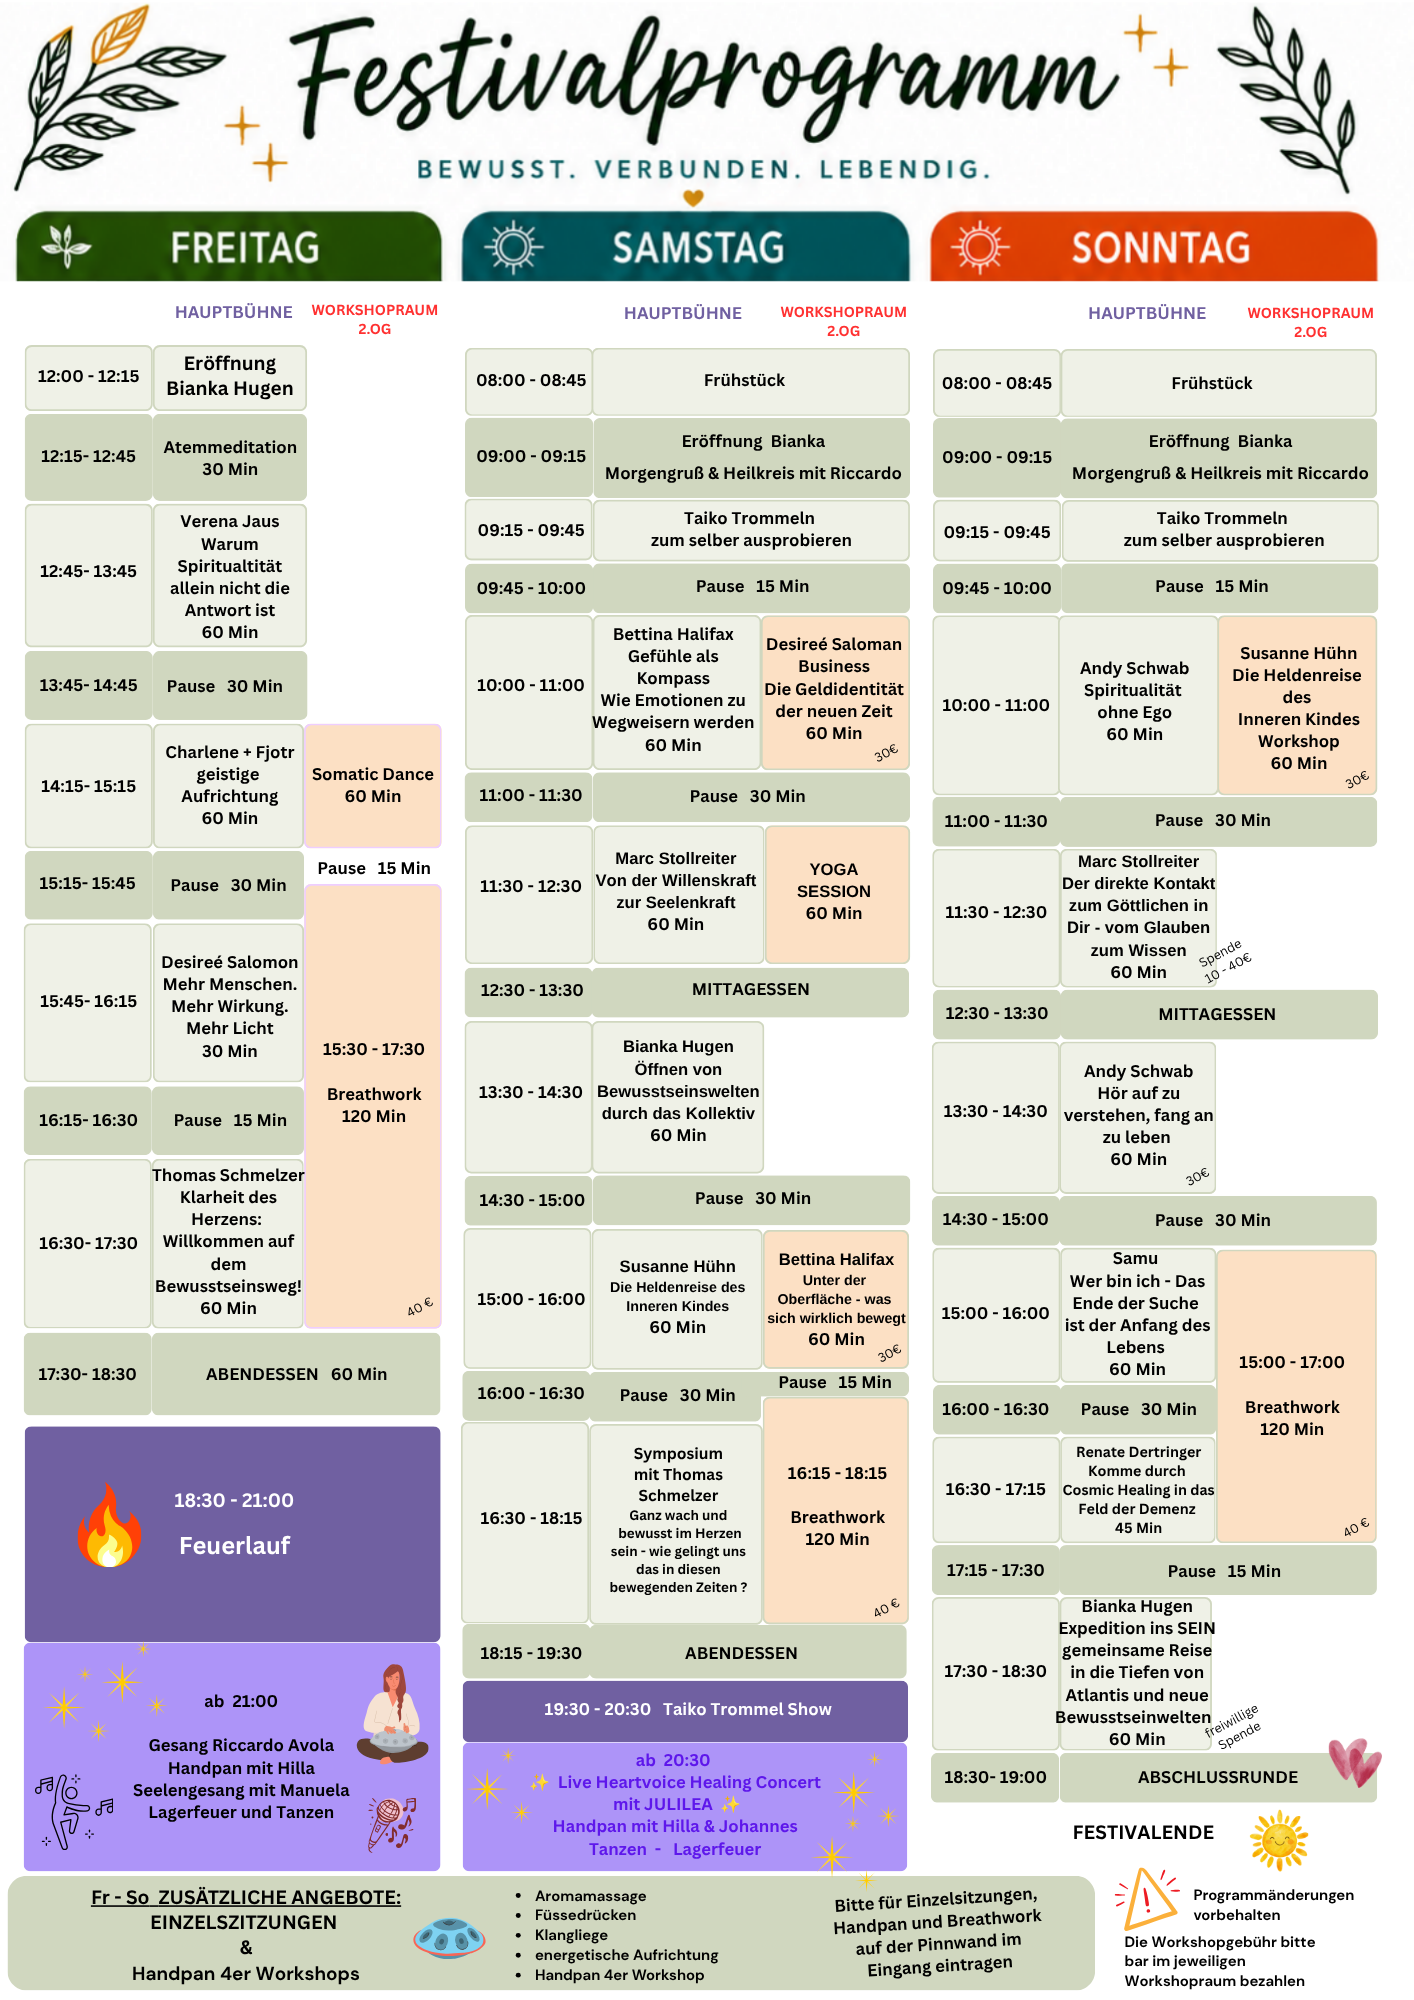
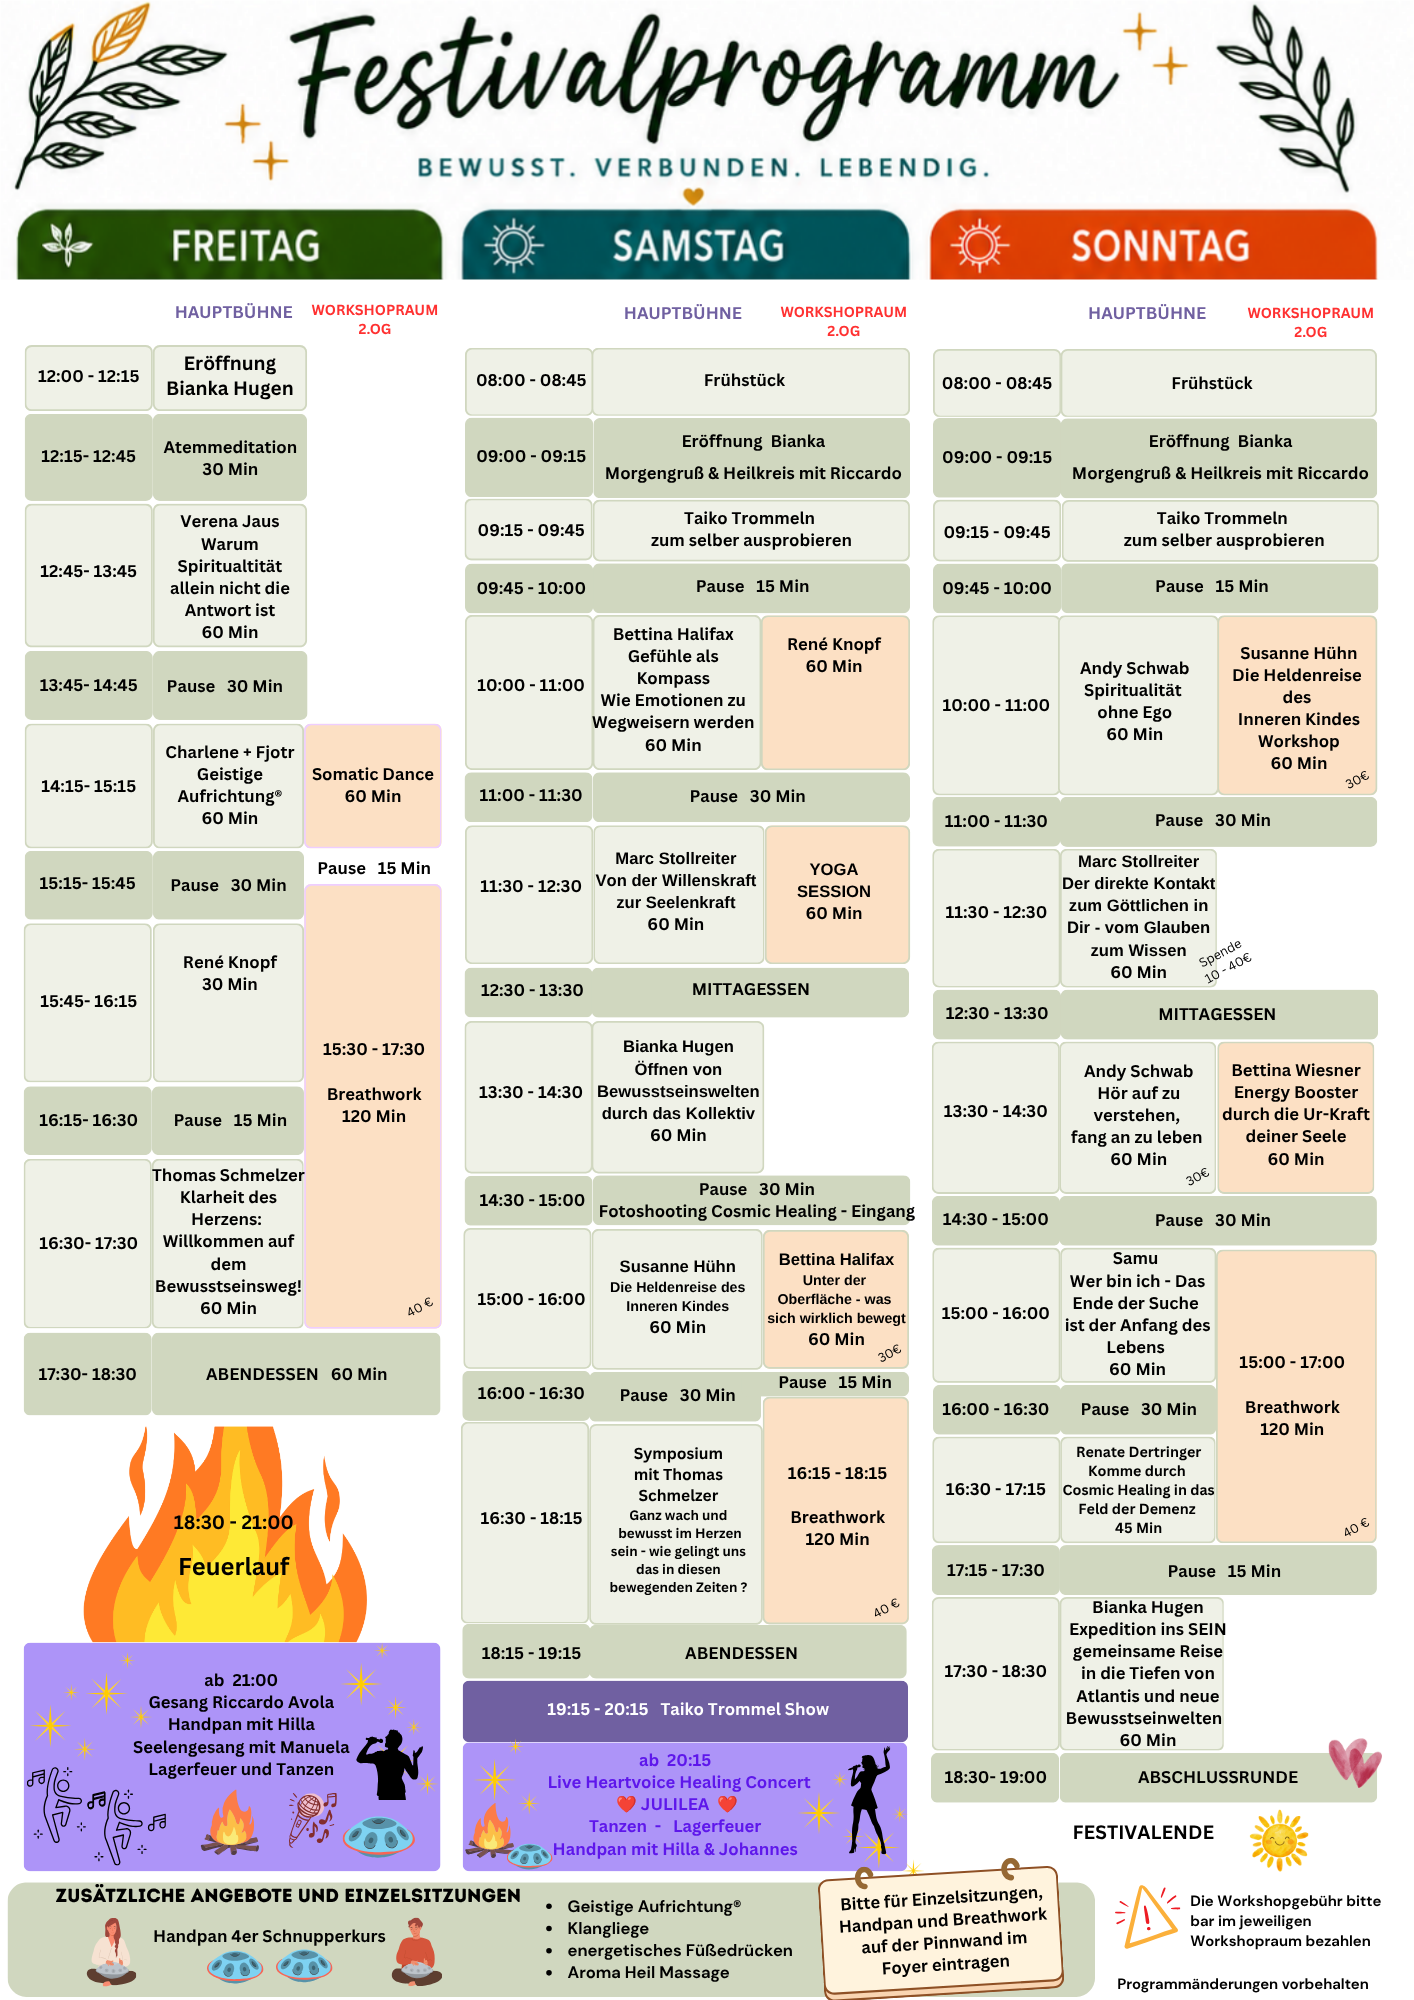
Speaker-Update: René Knopf + Bettina Wiesner, neues Programm, 3-Tages-Ticket
- René Knopf als TOP Speaker + Workshop hinzugefügt (Gründer Body und Soul Festival Mallorca)
- Bettina Wiesner als Speaker + Workshop hinzugefügt (ersetzt Désirée Salomon)
- Désirée Salomon aus Speaker-Grid und Workshop-Sektion entfernt
- Neues Festivalprogramm (Program MEGA mit Feuer-Symbol) übernommen
- Festival-Ticket überall in 3-Tages-Ticket umbenannt
- Speaker-Anzahl in Überschrift auf 13 aktualisiert

diff --git a/index.html b/index.html
@@ -2202,9 +2202,27 @@ footer {
   <div class="speakers-inner">
     <div class="section-header">
       <span class="section-label reveal" style="color:var(--rose);">Wirklich 3 Tage vor Ort</span>
-      <h2 class="section-title reveal reveal-delay-1" style="color:var(--text-dark);">Deine Chance, 12 Speaker <span style="background:linear-gradient(135deg,var(--rose) 0%,var(--gold) 60%,var(--rose-light) 100%);-webkit-background-clip:text;-webkit-text-fill-color:transparent;background-clip:text;">persönlich kennenzulernen</span></h2>
+      <h2 class="section-title reveal reveal-delay-1" style="color:var(--text-dark);">Deine Chance, 13 Speaker <span style="background:linear-gradient(135deg,var(--rose) 0%,var(--gold) 60%,var(--rose-light) 100%);-webkit-background-clip:text;-webkit-text-fill-color:transparent;background-clip:text;">persönlich kennenzulernen</span></h2>
     </div>
     <div class="speakers-grid">
+      <!-- RENÉ KNOPF -->
+      <article class="speaker-card reveal" onclick="openSpeakerModal(this)"
+        data-name="René Knopf"
+        data-title="TOP Speaker · Gründer & Veranstalter Body und Soul Festival Mallorca"
+        data-vortrag="Folgt in Kürze"
+        data-workshop="Folgt in Kürze"
+        data-bio="René Knopf ist Gründer und Veranstalter des Body und Soul Festival Mallorca. Als TOP Speaker bringt er transformative Energie, authentische Herzensarbeit und eine außergewöhnliche Reichweite in die Bühnenarbeit ein. Sein Programmbeitrag beim Soul Awakening Festival 2026 wird noch bekannt gegeben."
+        data-img="Medien/Speaker/rene-knopf.jpg">
+        <div class="speaker-img-wrap">
+          <img src="Medien/Speaker/rene-knopf.jpg" alt="René Knopf" class="speaker-img" loading="lazy">
+          <div class="speaker-glow"></div>
+        </div>
+        <div class="speaker-info">
+          <div class="speaker-name">René Knopf</div>
+          <div class="speaker-title">TOP Speaker</div>
+          <div class="speaker-bio">Gründer · Body und Soul Festival Mallorca</div>
+        </div>
+      </article>
       <!-- THOMAS SCHMELZER -->
       <article class="speaker-card reveal" onclick="openSpeakerModal(this)"
         data-name="Thomas Schmelzer"
@@ -2349,22 +2367,22 @@ footer {
           <div class="speaker-bio">Energetische Aromatherapie · Aura & Energiesystem</div>
         </div>
       </article>
-      <!-- DESIRÉE SALOMON -->
+      <!-- BETTINA WIESNER -->
       <article class="speaker-card reveal" onclick="openSpeakerModal(this)"
-        data-name="Desirée Salomon"
-        data-title="Medium · Spiritueller Business Coach · Visionärin"
-        data-vortrag="Bewusstsein & Business"
-        data-workshop="Die Geldidentität der neuen Zeit"
-        data-bio="Desirée Salomon ist Medium, Coach, Visionärin und Gründerin von Lumea. Als hellwissende alte Seele begleitet sie Menschen dabei, das Unsichtbare in die Realität zu übersetzen und große Visionen auf dieser Erde zu verankern. Sie ist die Anlaufstelle für Unternehmerinnen und Unternehmer, die spüren, dass sie für etwas Größeres gekommen sind. Ihre besondere Gabe liegt darin, Spiritualität, Mindset und Business auf eine Weise zu verbinden, die Wachstum, Fülle und Erfolg wieder in ihren natürlichen Fluss bringt."
-        data-img="Medien/Speaker/desiree-salomon.jpg">
+        data-name="Bettina Wiesner"
+        data-title="Healing Heart und Happiness · Seelen Kanal Öffnerin · Expertin für Transformation und Lebensenergie"
+        data-vortrag="Energy Booster durch die Ur-Kraft deiner Seele"
+        data-workshop="Energy Booster durch die Ur-Kraft deiner Seele"
+        data-bio="Bettina Wiesner — Healing Heart und Happiness. Als Seelen Kanal Öffnerin begleitet sie Menschen seit über 20 Jahren in ihre göttliche Ur Essenz — in das, was sie waren, bevor sie auf diese Erde kamen. Nach über 30 Jahren Schulmedizin hat sie sich darauf spezialisiert, geerbte und übertragene Ursachen von körperlicher und emotionaler Belastung aufzuspüren und zu erlösen. Sie bietet 1:1 Begleitung, Gruppen Transformationen, Retreats und Happiness Begleitungen in ihrem Soul Awakening Mobil an. Lass Dich überraschen, wie deine Ur Energie voller innerer Ruhe, Freude und Schönheit tief in Dir erfahren wird und eine nachhaltige Wirkung ermöglicht."
+        data-img="Medien/Speaker/bettina-wiesner.jpg">
         <div class="speaker-img-wrap">
-          <img src="Medien/Speaker/desiree-salomon.jpg" alt="Desirée Salomon" class="speaker-img" loading="lazy">
+          <img src="Medien/Speaker/bettina-wiesner.jpg" alt="Bettina Wiesner" class="speaker-img" loading="lazy">
           <div class="speaker-glow"></div>
         </div>
         <div class="speaker-info">
-          <div class="speaker-name">Desirée Salomon</div>
-          <div class="speaker-title">Spiritueller Business Coach</div>
-          <div class="speaker-bio">Lumea · Bewusstsein, Mindset & Business</div>
+          <div class="speaker-name">Bettina Wiesner</div>
+          <div class="speaker-title">Seelen Kanal Öffnerin</div>
+          <div class="speaker-bio">Healing Heart und Happiness · Expertin für Lebensenergie</div>
         </div>
       </article>
       <!-- PJOTR & CHARLENE ELKUNOVIZ -->
@@ -2840,12 +2858,21 @@ footer {
       </article>
 
       <article class="workshop-card reveal reveal-delay-2">
-        <img src="Medien/Speaker/desiree-salomon.jpg" alt="Desirée Salomon" class="workshop-img" loading="lazy">
+        <img src="Medien/Speaker/bettina-wiesner.jpg" alt="Bettina Wiesner" class="workshop-img" loading="lazy">
         <span class="workshop-tag">Speaker-Workshop</span>
-        <h3 class="workshop-title">Die Geldidentität der neuen Zeit</h3>
-        <div class="workshop-host">Desirée Salomon</div>
-        <p class="workshop-desc">Spiritualität, Mindset und Business in Einklang bringen — dein Weg zu Wachstum, Fülle und dem natürlichen Fluss des Erfolgs.</p>
+        <h3 class="workshop-title">Energy Booster durch die Ur-Kraft deiner Seele</h3>
+        <div class="workshop-host">Bettina Wiesner</div>
+        <p class="workshop-desc">Erlebe, wie deine Ur-Energie voller innerer Ruhe, Freude und Schönheit tief in dir erfahren wird — und eine nachhaltige Wirkung ermöglicht.</p>
         <div class="workshop-meta"><span class="workshop-badge price">€ 30 · Exklusiver Festivalpreis</span></div>
+      </article>
+
+      <article class="workshop-card reveal reveal-delay-3">
+        <img src="Medien/Speaker/rene-knopf.jpg" alt="René Knopf" class="workshop-img" loading="lazy">
+        <span class="workshop-tag">Speaker-Workshop</span>
+        <h3 class="workshop-title">Workshop mit René Knopf</h3>
+        <div class="workshop-host">René Knopf</div>
+        <p class="workshop-desc">Details folgen in Kürze — freue dich auf einen besonderen Programmbeitrag des Gründers des Body und Soul Festival Mallorca.</p>
+        <div class="workshop-meta"><span class="workshop-badge">Details folgen</span></div>
       </article>
 
 
@@ -2926,7 +2953,7 @@ footer {
         <div class="ticket-urgency" id="earlyBirdBanner1">
           🕊 Early Bird — Sichere dir deinen Platz bis 5. August!
         </div>
-        <div class="ticket-name">Festival-Ticket</div>
+        <div class="ticket-name">3-Tages-Ticket</div>
 
         <div class="ticket-price-block">
           <div class="ticket-price gold-text">
@@ -3179,7 +3206,7 @@ footer {
     <!-- Zimmer buchen CTA -->
     <div class="reveal" style="max-width:860px;margin:0 auto 16px;background:var(--gold);border-radius:8px;padding:18px 24px;">
       <div style="font-size:15px;font-weight:700;color:var(--black);margin-bottom:6px;">🏨 Zimmer direkt beim Lethehof buchen</div>
-      <div style="font-size:13px;color:rgba(10,10,10,0.7);margin-bottom:12px;">Die Übernachtung wird direkt mit dem Hotel Lethehof gebucht — nicht über das Festival-Ticket.</div>
+      <div style="font-size:13px;color:rgba(10,10,10,0.7);margin-bottom:12px;">Die Übernachtung wird direkt mit dem Hotel Lethehof gebucht — nicht über das 3-Tages-Ticket.</div>
       <div style="display:flex;flex-wrap:wrap;gap:8px 20px;">
         <a href="mailto:info@hotel-lethehof.de" style="font-size:13px;font-weight:600;color:var(--black);text-decoration:none;">✉ info@hotel-lethehof.de</a>
         <a href="tel:+4917632699427" style="font-size:13px;font-weight:600;color:var(--black);text-decoration:none;">📞 0176 32699427</a>
@@ -3283,7 +3310,7 @@ footer {
         <select class="form-select" id="formTicket" name="ticket" required>
           <option value="" disabled selected>Bitte wählen …</option>
           <optgroup label="Wochenendtickets">
-            <option value="Festival-Ticket (€249)">🕊 Festival-Ticket — €249</option>
+            <option value="3-Tages-Ticket (€249)">🕊 3-Tages-Ticket — €249</option>
           </optgroup>
           <optgroup label="Tagestickets mit Verpflegung">
             <option value="Tagesticket Freitag (€129)">📅 Freitag 21.8. — €129 (mit Essen)</option>
@@ -3326,8 +3353,8 @@ footer {
           <p style="font-size:15px;color:rgba(245,240,232,0.7);line-height:1.8;">
             <strong style="color:var(--cream-mid);">Bianka Hugen</strong><br>
             IBAN: <strong style="color:var(--cream-mid);">DE38 1203 0000 1210 5172 54</strong><br>
-            Betreff: <strong style="color:var(--cream-mid);">Festival Ticket</strong> + dein gewähltes Ticket<br>
-            <em style="color:rgba(245,240,232,0.5);">Festival-Ticket: €249 · Tagestickets: €79–€129</em>
+            Betreff: <strong style="color:var(--cream-mid);">3-Tages-Ticket</strong> + dein gewähltes Ticket<br>
+            <em style="color:rgba(245,240,232,0.5);">3-Tages-Ticket: €249 · Tagestickets: €79–€129</em>
           </p>
           <p style="font-size:13px;color:rgba(245,240,232,0.45);margin-top:12px;line-height:1.7;">💳 Ratenzahlung möglich: 3 × €90 oder 6 × €50 — einfach in der Nachricht angeben.</p>
           <div style="margin-top:16px;padding-top:16px;border-top:1px solid rgba(201,168,76,0.15);">
@@ -3635,9 +3662,9 @@ document.querySelectorAll('.faq-question').forEach(btn => {
 
 // ===== TICKET BUTTONS → FORMULAR VORAUSWAHL =====
 const ticketMap = {
-  bookEarlyBird: 'Festival-Ticket (€249)',
+  bookEarlyBird: '3-Tages-Ticket (€249)',
   bookVIP: 'VIP-Ticket (€449)',
-  mainBookBtn: 'Festival-Ticket (€249)'
+  mainBookBtn: '3-Tages-Ticket (€249)'
 };
 Object.entries(ticketMap).forEach(([id, val]) => {
   const el = document.getElementById(id);
@@ -4046,9 +4073,9 @@ function toggleCookieDetails() {
     el.addEventListener('click', function(e) {
       e.preventDefault();
       const ticketMap = {
-        bookEarlyBird: 'Festival-Ticket (€249)',
+        bookEarlyBird: '3-Tages-Ticket (€249)',
 
-        mainBookBtn: 'Festival-Ticket (€249)'
+        mainBookBtn: '3-Tages-Ticket (€249)'
       };
       const sel = document.getElementById('formTicket');
       if (sel && ticketMap[id]) sel.value = ticketMap[id];
